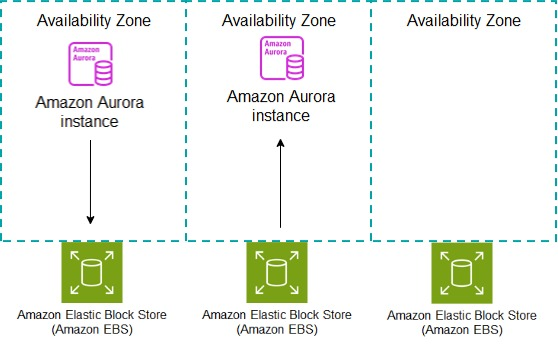
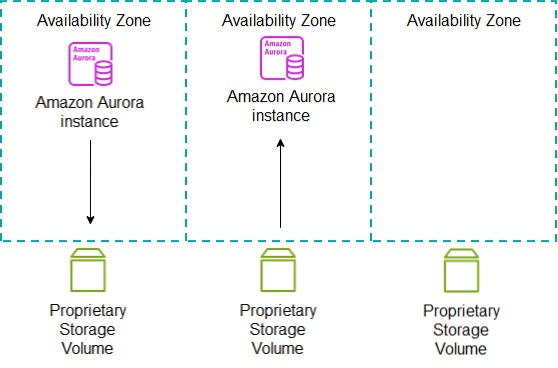
update from Seths feedback v1

diff --git a/posts/zero-dataloss-dr-using-rds/index.md b/posts/zero-dataloss-dr-using-rds/index.md
@@ -25,7 +25,7 @@ Recovery from failure and Testing of recovery procedures also forms part of the 
 
  > Your resiliency strategy should also include Disaster Recovery (DR) objectives based on strategies to recover your workload in case of a disaster event.
 
- Amazon RDS Disaster Recovery Data Loss scope is at the database level and measureable in time or database system change. We recovery the database and everything contained within to the same consistent point.
+ Amazon RDS Disaster Recovery Data Loss scope is at the database level and measureable in time or database system change. By database system change we are referring to the internal mechanism databases use to track change which will also be discussed later in this blog. We recover the database and everything contained within to the same consistent point in time or database system change number.
 
  Recovery from a Disaster, with Zero Data Loss or ZDLDR means that once the database is back in service it will carry on from the point of failure and hold all transactional history up until the point of failure. For instance if we lost an Availability Zone at 9:00am UTC, For a ZDLDR Solution we would want a Solution that could reinstate that database service as if it were 09:00am UTC again anything less could imply loss of new or changed data.
 
@@ -51,7 +51,7 @@ As depicted below these databases write to a standard non clustered EBS volume(s
 
 Cloud Native Databases are designed from the ground up to utilise cloud features that are generally only available on the cloud. Amazon Aurora Postgres and Amazon Aurora MySQL (both of which are still part of the RDS family) can be considered a hybrid cloud native database offering. Aurora decouples the compute from the storage layer. The storage layer has extra efficiencies, safe guards and utilises multiple AZs to enhance high availability. 
 
-As depicted below Amazon Aurora RDS writes to a clustered storage volume that spans across all 3 Availability Zones where 6 copies of the data will be present. The data is striped such that an Aurora database can be stood up for Disaster Recovery at any time in any Availability Zone within the same Region with no further replication or overhead. 
+As depicted below Amazon Aurora RDS writes to a clustered proprietary storage volume that spans across all 3 Availability Zones where 6 copies of the data will be present. The data is striped such that an Aurora database can be stood up for Disaster Recovery at any time in any Availability Zone within the same Region with no further replication or overhead. 
   
 ![RDS Multi AZ Clustered](images/pic2_az_clustered.jpg "Figure 3. RDS Multi AZ Clustered")
   
@@ -68,22 +68,22 @@ Database engines journal change using their own internal tracking sequence. This
 
 
 
-Cloud Enabled Databases capture all changes in logs also known as transaction, binary or redo logs depending on the database engine. These logs are generally write ahead logs (WAL) so all data manipulation is first persisted to these logs then the underlying database files using a process known as Check pointing. This provides a mechanism for a database to roll forward all SCN or LSN changes in the WAL(s) and recover its underlying files to be consistent after an ungraceful outage or server crash. Though any inflight transactions would be rolled back as they were not committed, this is a generally accepted model amongst Cloud Enabled database vendors and applications which results in Zero Data Loss.
+Cloud Enabled Databases capture all changes in logs also known as transaction, binary or redo logs depending on the database engine. These logs are generally [write ahead logs  (WAL)](https://en.wikipedia.org/wiki/Write-ahead_logging) so  all data manipulation is first persisted to these logs then the underlying database files using a process known as Check pointing. This provides a mechanism for a database to roll forward all SCN or LSN changes in the WAL(s) and recover its underlying files to be consistent after an ungraceful outage or server crash. Though any inflight transactions would be rolled back as they were not committed, this is a generally accepted model amongst Cloud Enabled database vendors and applications which results in Zero Data Loss. This is depicted below in Figure 4.
   
-![RDS crash recovery](images/pic5_recovery_rds.jpg "Figure 5. RDS crash recovery")
+![RDS crash recovery](images/pic5_recovery_rds.jpg "Figure 4. RDS crash recovery")
   
-RDS Cloud Native databases namely Amazon Aurora uses a clustered log structured distributed storage system. This means once a change has occurred in the database, the log records are sent to the storage tier and added to an in memory queue. The database is then freed from any other overhead regarding management of these records. It falls to the Storage tier to take responsibility for persisting those records to disk and data page updates to reflect the change. As there is no transaction log or WAL as such on the database tier, there is no crash recovery phase when recovering from an ungraceful shutdown or crash, the data on disk is always upto date or log records to recreate current images exist on disk so again this results in Zero Data Loss.
+RDS Cloud Native databases namely Amazon Aurora uses a clustered log structured distributed storage system. This means once a change has occurred in the database, the log records are sent to the storage tier and added to an in memory queue. The database is then freed from any other overhead regarding management of these records. It falls to the Storage tier to take responsibility for persisting those records to disk and data page updates to reflect the change. As there is no transaction log or WAL as such on the database tier, the crash recovery phase is minimal when recovering from an ungraceful shutdown or crash. The data on disk is always upto date or log records to recreate current images exist on disk to be applied in parallel and asynchronously this results in Zero Data Loss. This is depicted below in Figure 5.
   
-![Aurora crash recovery](images/pic6_recovery_aurora.jpg "Figure 6. Aurora crash recovery")
+![Aurora crash recovery](images/pic6_recovery_aurora.jpg "Figure 5. Aurora crash recovery")
   
 ## High Availability vs Backups vs Disaster Recovery 
 One of the strengths of Amazon RDS is a simple and configurable Backup Solution, High Availability and Disaster Recovery options. This provides the capability to reinstate a failed database environment. But there are clear differences in their implementation, usage and potential for data loss.
 
-The industry standard term for the amount of data loss a system can tolerate is known as the Recovery Point Objective (RPO). This is measured as a unit of time it could be seconds, hours or even days. An RPO of 0 would mean that a database could not tolerate any data loss.
+The industry standard term for the amount of data loss a system can tolerate is known as the [Recovery Point Objective (RPO)](https://docs.aws.amazon.com/wellarchitected/latest/reliability-pillar/disaster-recovery-dr-objectives.html). This is measured as a unit of time it could be seconds, hours or even days. An RPO of 0 would mean that a database could not tolerate any data loss.
 
-High Availability is resilience to failure of individual services such as compute and storage. AWS by nature is highly available, if an EC2 fails due to an h/w issue this can be respawned on new h/w. EBS disks are resilient and striped. So we can expect Amazon RDS to be highly available as it's built using this same reliable, fault tolerant infrastructure. As we have discussed earlier if there is an issue that crashes the database, the database should still restart with zero data loss. If an RDS Database is setup to run as Multi AZ, RDS will automatically failover to a Disaster Recovery Site if one exists as well under many conditions. Using Multi AZ will provide an RPO of 0 due to synchronous replication.
+High Availability is resilience to failure of individual services such as compute and storage. AWS by nature is highly available ([as long as best practices are followed](https://docs.aws.amazon.com/whitepapers/latest/disaster-recovery-workloads-on-aws/shared-responsibility-model-for-resiliency.html)), if an EC2 Instance fails due to an h/w issue this can be respawned on new h/w. EBS disks are resilient and striped. So we can expect Amazon RDS to be highly available as it's built using this same reliable, fault tolerant infrastructure. As we have discussed earlier if there is an issue that crashes the database, the database should still restart with zero data loss. If an RDS Database is setup to run as Multi AZ, RDS will automatically failover to the Disaster Recovery Site as well under many conditions. Using Multi AZ will provide an RPO of 0 due to synchronous replication.
 
-Backups in Amazon RDS are based on EC2 Storage level Snapshots and for Cloud Enabled offerings this is coupled with transaction log backups every 5 minutes all automated when enabled and implicitly written to S3 Object bucket Storage. The initial Snapshot of a database will perform a full storage backup with subsequent Snapshots being forever incremental copying only changed disk blocks for speed and efficiency.
+Backups in Amazon RDS are based on EC2 instance Storage level Snapshots and for Cloud Enabled offerings this is coupled with transaction log backups every 5 minutes all automated when enabled and implicitly written to S3 Object bucket Storage. The initial Snapshot of a database will perform a full storage backup with subsequent Snapshots being forever incremental copying only changed disk blocks for speed and efficiency.
   
 | Backup                              | Cadence                 |
 |-------------------------------------|-------------------------|
@@ -93,13 +93,13 @@ Backups in Amazon RDS are based on EC2 Storage level Snapshots and for Cloud Ena
 | Cloud Native Transactional Logical  | Continuous              |
 
   
-The Hybrid Cloud Native Amazon Aurora backups are continuous and based on its intelligent storage clustered setup and how data changes are recorded, due to this we should be able to restore an Aurora database with no data loss as there is no transaction log backup needed, the transactions are part of the data persisted to disk across all 3 AZs mentioned earlier. 
+The Hybrid Cloud Native Amazon Aurora backups are continuous and based on its intelligent storage clustered setup and how data changes are recorded. Though the earliest restore time using backup for Aurora is also typlically 5 minutes minus the current time. Due to the very high availability of Amazon Aurora storage the use of backups as a last resort should be a very rare occurance.
 
 To restore a RDS Cloud Enabled database would need a restore of the full backup + incremental backup(s) + for Cloud Enabled database the roll forward of the transaction logs. Potentially the RPO using Amazon Cloud Enabled RDS backups would be 5 minutes at most (the cadence of transaction log backups). This would only be applicable if not using Multi AZ to reinstate the database.
 
-To restore a RDS Hybrid Cloud Native database would need a restore of the full backup + incremental backup(s), there are no transaction logs to restore, we should expect an RPO of 0 i.e. no data loss.
+To restore a RDS Hybrid Cloud Native database would need a restore of the full backup + incremental backup(s), there are no transaction logs to restore, we should expect an RPO of 0 under normal circumstances as the data is highly available and replicated.
   
-![RDS Backup workflow](images/pic8_backup_workflow.jpg "Figure 8. RDS Backup workflow")
+![RDS Backup workflow](images/pic8_backup_workflow.jpg "Figure 6. RDS Backup workflow")
   
 Disaster Recovery in Amazon RDS is based on Multi AZ or Multi Region database copies where we have a physically separate database copy located in a different physical location. This Database copy could be replicated using SAN or Database technologies with the latter protecting against disk corruptions. The replication used between database copies to keep them identical or near identical as possible could use asynchronous, synchronous, semi-synchronous or synchronous clustered replication depending on the replication technology used and DR setup.
 
@@ -122,7 +122,7 @@ Disaster Recovery in Amazon RDS is based on Multi AZ or Multi Region database co
 These 4 types of replication are depicted below:
   
 
-![Replication Async vs Sync](images/pic9_replication_sync_vs_async.jpg "Figure 9. Replication Async vs Sync")
+![Replication Async vs Sync](images/pic9_replication_sync_vs_async.jpg "Figure 7. Replication Async vs Sync")
   
 'What' we replicate could be either:
 
@@ -133,7 +133,7 @@ These 4 types of replication are depicted below:
 - Using a clustered physical copy, where the replication is handled by the intelligent storage tier mirroring multiple copies of data across all available AZs. This is only supported for Amazon Aurora which uses a clustered decoupled storage layer, here the physical replication must be replicated at least 4 ways across all available AZs to be considered in sync and eventually 6 ways, its uses what's called a 4 of 6 Quorum for writes. Due to the always synchronous clustered storage replication of Aurora we can assume an RPO of 0. We should note that Amazon Aurora clustered replication is only supported within the same region, though cross regions replication is supported asynchronously. Disk corruptions present on Amazon Aurora will selfheal from one of the healthy copies of the data, there will be a minimum of 4 copies and eventually 6 so this is very effective against disk corruption. 
 
 ## RDS Replicas
-A replica in Amazon RDS or Amazon Aurora represents a database that also has the potential to be used as an additional Read Only copy of the live database while still being continually updated with all changes. Using Amazon RDS Oracle there is an extra license fee  to use a Read Only copy known as Active Dataguard, hence with this database engine we can also have the replica in a recovery mode only not accessible for Read Only access where that license fee is then not required this is called a mounted replica. Amazon Aurora Replicas are based on the decoupled clustered storage that is automatically replicated across all AZs. This allows Amazon Aurora replica's to be stood up with no extra overhead or copying of transactions. Furthermore for Amazon Aurora we don't even need to stand up a replica as the potential to create one is still there at any time as the data is clustered across all available AZs to facilitate that.
+A replica in Amazon RDS or Amazon Aurora represents a database that also has the potential to be used as an additional Read Only copy of the live database while still being continually updated with all changes. Using Amazon RDS Oracle there is an extra license fee  to use a Read Only copy known as Active Dataguard, hence with this database engine we can also have the replica in a recovery mode only not accessible for Read Only access where that license fee is then not required this is called a mounted replica. Amazon Aurora Replicas are based on the decoupled clustered storage that is automatically replicated across all AZs but the replication thereafter is considered Asynchronous as the replicas are kept in sync with native database replication. For Disaster recovery though Aurora would reply on its decoupled storage for an RPO of 0. Furthermore for Amazon Aurora we don't even need to stand up a replica as the potential to create one is still there at any time as the data is clustered across all available AZs to facilitate that.
 
 Logical replication can be 
 - Asynchronously for Cloud Enabled RDS Replica's RDS Oracle, RDS Postgres, RDS MySQL and RDS MariaDB.
@@ -147,8 +147,8 @@ We can see below which database engines support SYNC and SEMISYNC replication so
 
 | Database Engine              | Storage Sub System | Multi AZ SAN Physical Replication Support (SYNC) | Multi AZ DB Replica Logical Replication Support (SYNC) | Multi AZ DB Replica Logical Replication Support (SEMI-SYNC)  |
 |------------------------------|--------------------|--------------------------------------------------|--------------------------------------------------------|--------------------------------------------------------------|
-| Amazon Aurora MySQL          | Multi AZ Clustered | Implicit                                         | Yes                                                    | No                                                           |
-| Amazon Aurora Postgres       | Multi AZ Clustered | Implicit                                         | Yes                                                    | No                                                           |
+| Amazon Aurora MySQL          | Multi AZ Clustered | Implicit                                         | No                                                    | No                                                           |
+| Amazon Aurora Postgres       | Multi AZ Clustered | Implicit                                         | No                                                    | No                                                           |
 | Amazon RDS for MySQL         | Single AZ Striped  | Yes                                              | No                                                     | Yes                                                          |
 | Amazon RDS for PostgresSQL   | Single AZ Striped  | Yes                                              | No                                                     | Yes                                                          |
 | Amazon RDS for MariaDB       | Single AZ Striped  | Yes                                              | No                                                     | No                                                           |
@@ -189,7 +189,7 @@ The next level of failure would be loss of an entire Region(s), let's call this 
 
 The last level of failure would be an entire AWS outage of all regions let's call this a Level 4 failure. This should be extremely rare but can be mitigated by a hybrid or multi cloud DR strategy. There would also be a higher likelihood of data loss due to such replication being asynchronous. Also for Amazon RDS this would only be supported using a RDS Custom Engine as it would require low level customisations for such DR that only the Custom offering of RDS supports. Though regular RDS could take manual backups and push these to a target environment as well but the RPO will be very high for that.
   
-![Disaster Blast Radius](images/pic12_disaster_blast_radius.jpg "Figure 12. Disaster Blast Radius")
+![Disaster Blast Radius](images/pic12_disaster_blast_radius.jpg "Figure 8. Disaster Blast Radius")
   
 It should be evident that a true ZDLDR solution is only possible at a Level 1 and Level 2 events as the other Levels utilise asynchronous replication. 
 
@@ -221,29 +221,29 @@ Putting all of this together we can derive which RDS configuration will support 
 ## Architecting for Near Zero Data Loss
 The purpose of this article is architecting for ZDLDR, but we can reduce the likelihood of data loss for those Engines that do not support a logical synchronous or semi-synchronous replica or run on Amazon Aurora. Using a Multi AZ with one standby replica. This would create a defence against disaster with the Multi AZ SAN copy being used in the majority of DR scenarios. The replica would exist to support edge case disk corruption with the acceptance it will run ASYNC so could lag behind, but even so it would provide extra recoverability options and also potentially provide the opportunity to off load reporting if used as a Read Replica. Databases using this setup would have the protection of 3 AZ's providing further protection against disaster. This is similar to semi-synchronous replication supported by RDS MySQL and RDS Postgres but you have then benefit of both types of DR SAN and DB replication supporting your HA. Though the SAN replicated site won't protect against disk corruption it could be used to reinstate data that is not corrupt into the DB replicated database using Database native export tools.
   
-![3 way AZ RDS Replication](images/pic14_3_way_az.jpg "Figure 14. 3 way AZ RDS Replication")
+![3 way AZ RDS Replication](images/pic14_3_way_az.jpg "Figure 9. 3 way AZ RDS Replication")
   
 ## Summary
 Architecting for Zero Data Loss is certainly a possibility utilising Amazon RDS, due to edge case disk corruption only logical synchronous replicas, semi-synchronous replicas or Amazon Aurora can be considered to cater for this. The cloud enabled enterprise class database giants that are Oracle and SQL Server both support this using one extra DR Site. RDS MySQL and RDS Postgres also support ZDLDR under most circumstances but requires 2 replica DR Sites. But what truly stands out is the hybrid cloud native offering from Amazon Aurora which is out of the box ready to support zero data loss disaster recovery from day 0. If a ZDLDR solution can't be used then we can achieve a near ZDLDR solution utilising Multi AZ replication with an additional replica across all 3 AZs.
 
 ## Further Reading and References
 - Documentation
-  - https://aws.amazon.com/rds/ha/     
-  - https://aws.amazon.com/rds/features/multi-az/
-  - https://docs.aws.amazon.com/AmazonRDS/latest/UserGuide/Concepts.MultiAZ.html     
-  - https://docs.aws.amazon.com/AmazonRDS/latest/UserGuide/Concepts.MultiAZSingleStandby.html     
-  - https://docs.aws.amazon.com/AmazonRDS/latest/UserGuide/multi-az-db-clusters-concepts.html     
-  - https://docs.aws.amazon.com/AmazonRDS/latest/UserGuide/USER_SQLServerMultiAZ.html     
-  - https://docs.aws.amazon.com/AmazonRDS/latest/UserGuide/custom-sqlserver-multiaz.html     
-  - https://aws.amazon.com/what-is/disaster-recovery/     
-  - https://docs.aws.amazon.com/wellarchitected/latest/reliability-pillar/welcome.html
+  - [Amazon RDS: High Availability](https://aws.amazon.com/rds/ha/)
+  - [Amazon RDS: High Multi AZ Overview](https://aws.amazon.com/rds/features/multi-az/)
+  - [Amazon RDS: High Multi AZ Concepts](https://docs.aws.amazon.com/AmazonRDS/latest/UserGuide/Concepts.MultiAZ.html) 
+  - [Amazon RDS: High Multi AZ Single Standby](https://docs.aws.amazon.com/AmazonRDS/latest/UserGuide/Concepts.MultiAZSingleStandby.html)     
+  - [Amazon RDS: High Multi AZ Clusters](https://docs.aws.amazon.com/AmazonRDS/latest/UserGuide/multi-az-db-clusters-concepts.html)   
+  - [Amazon RDS: High Multi AZ SQLServer User Guide](https://docs.aws.amazon.com/AmazonRDS/latest/UserGuide/USER_SQLServerMultiAZ.html)    
+  - [Amazon RDS: High Multi AZ SQLServer RDS Custom User Guide](https://docs.aws.amazon.com/AmazonRDS/latest/UserGuide/custom-sqlserver-multiaz.html)
+  - [Amazon: What is Disaster Recovery](https://aws.amazon.com/what-is/disaster-recovery/)    
+  - [AWS: Well-Architected Framework Reliability Pillar](https://docs.aws.amazon.com/wellarchitected/latest/reliability-pillar/welcome.html)
 - White Papers
-  - https://docs.aws.amazon.com/whitepapers/latest/disaster-recovery-workloads-on-aws/disaster-recovery-options-in-the-cloud.htm       
+  - [Amazon: Disaster Recovery options in the Cloud](https://docs.aws.amazon.com/whitepapers/latest/disaster-recovery-workloads-on-aws/disaster-recovery-options-in-the-cloud.html)
 - Videos
-  - https://www.youtube.com/watch?v=0IeLKyBl3CM     
-  - https://www.youtube.com/watch?v=ZKOo2OFloYs
+  - [AWS re:Invent 2020: Amazon Aurora storage demystified](https://www.youtube.com/watch?v=0IeLKyBl3CM)  
+  - [AWS: Exploring High Availability Using RDS for SQL Server Always On](https://www.youtube.com/watch?v=ZKOo2OFloYs)
 - How To Guides
-  - https://docs.aws.amazon.com/AmazonRDS/latest/UserGuide/Concepts.MultiAZSingleStandby.html
-  - https://docs.aws.amazon.com/AmazonRDS/latest/UserGuide/USER_ReadRepl.html#USER_ReadRepl.Create
-  - https://docs.aws.amazon.com/AmazonRDS/latest/UserGuide/create-multi-az-db-cluster.html
-  - https://aws.amazon.com/blogs/database/build-high-availability-for-amazon-rds-custom-for-oracle-using-read-replicas/     
+  - [Amazon RDS: Multi AZ Single Standby](https://docs.aws.amazon.com/AmazonRDS/latest/UserGuide/Concepts.MultiAZSingleStandby.html)
+  - [Amazon RDS: Read Replica](https://docs.aws.amazon.com/AmazonRDS/latest/UserGuide/USER_ReadRepl.html#USER_ReadRepl.Create)
+  - [Amazon RDS: Multi AZ Cluster](https://docs.aws.amazon.com/AmazonRDS/latest/UserGuide/create-multi-az-db-cluster.html)
+  - [Amazon RDS: Oracle Replica using RDS Custom](https://aws.amazon.com/blogs/database/build-high-availability-for-amazon-rds-custom-for-oracle-using-read-replicas/)  
